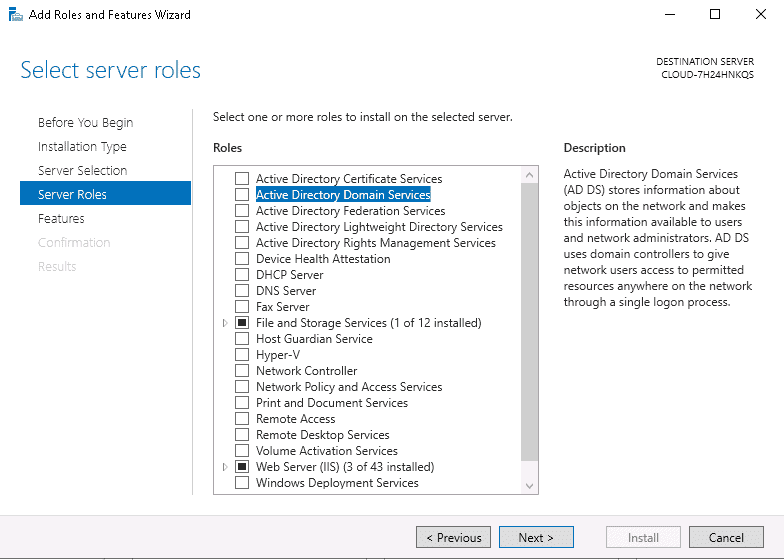
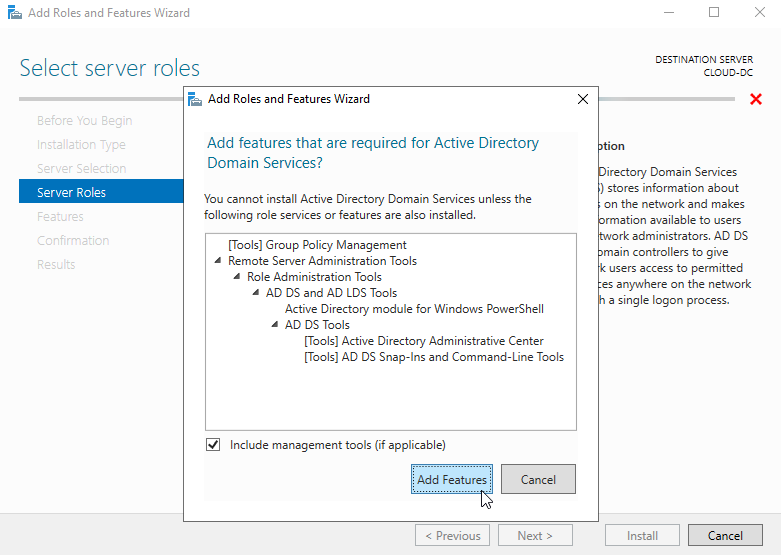
AD DC

diff --git a/Module-B/AD DC/README.md b/Module-B/AD DC/README.md
@@ -2,13 +2,32 @@
 
 ### Step 1: Login to Windows Server as an administrator and open the Server Manager as shown below:
 
-![img.png](img.png)
+![img.png](a/img.png)
 
 ### Step 2: Click on the Add Roles and Features. This will open the Add Roles and Features Wizard as shown below:
 
-![img_1.png](img_1.png)
+![img_1.png](a/img_1.png)
 
 ### Step 3: Click on the Next button. You will be asked to select the installation type as shown below:
+
+![img_2.png](a/img_2.png)
+
+![img_3.png](a/img_3.png)
+
+![img_4.png](a/img_4.png)
+
+
+
+https://www.ittsystems.com/active-directory-setup-guide/#wbounce-modal
+
+https://akyriako.medium.com/install-the-routing-and-remote-access-server-rras-on-windows-server-2022-8b0c2d880507
+
+
+
+
+![img.png](img.png)
+
+![img_1.png](img_1.png)
 
 ![img_2.png](img_2.png)
 
@@ -16,9 +35,55 @@
 
 ![img_4.png](img_4.png)
 
+![img_5.png](img_5.png)
 
+![img_6.png](img_6.png)
 
-https://www.ittsystems.com/active-directory-setup-guide/#wbounce-modal
+![img_7.png](img_7.png)
 
-https://akyriako.medium.com/install-the-routing-and-remote-access-server-rras-on-windows-server-2022-8b0c2d880507
+![img_8.png](img_8.png)
+
+forest
+
+![img_9.png](img_9.png)
+
+![img_10.png](img_10.png)
+
+![img_11.png](img_11.png)
+
+![img_12.png](img_12.png)
+
+![img_13.png](img_13.png)
+
+![img_14.png](img_14.png)
+
+![img_15.png](img_15.png)
+
+![img_16.png](img_16.png)
+
+child
+
+![img_9.png](img_9.png)
+
+![img_17.png](img_17.png)
+
+![img_18.png](img_18.png)
+
+![img_19.png](img_19.png)
+
+![img_20.png](img_20.png)
+
+![img_21.png](img_21.png)
+
+![img_22.png](img_22.png)
+
+![img_23.png](img_23.png)
+
+![img_24.png](img_24.png)
+
+![img_25.png](img_25.png)
+
+![img_26.png](img_26.png)
+
+![img_27.png](img_27.png)
 
